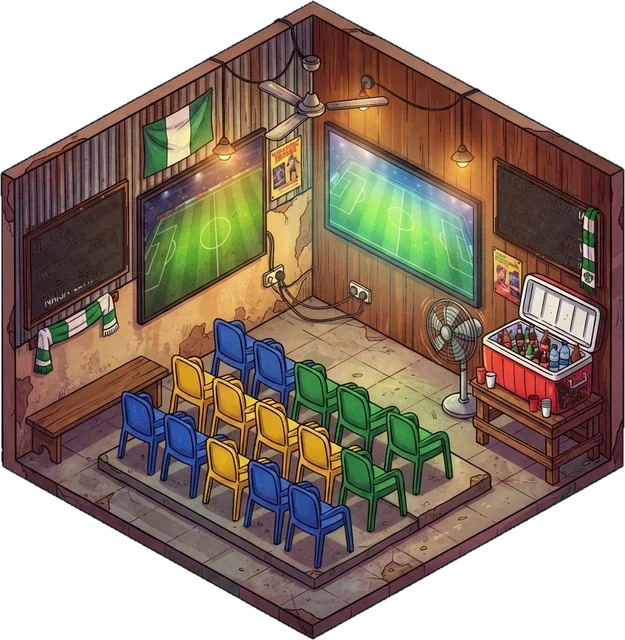
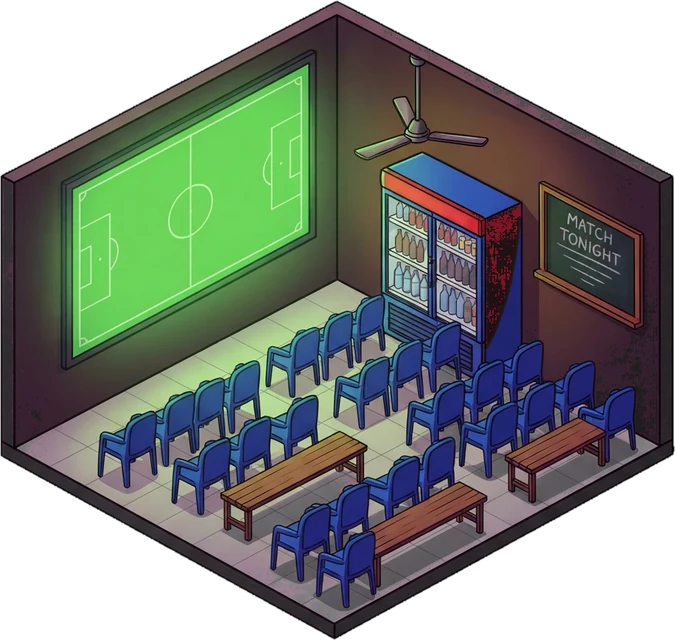
art: zip 15 interiors (police, hospital, radio, library, court, golf lounge, snooker, stadium, hangout, viewing centre, provision shop) with people placed

diff --git a/apps/web/src/components/Interior.tsx b/apps/web/src/components/Interior.tsx
@@ -58,18 +58,15 @@ export const ROOMS: Record<string, Room> = {
     ],
   },
   "viewing-centre": {
-    walkway: [
-      [0.2, 0.78],
-      [0.32, 0.86],
-      [0.5, 0.9],
-      [0.64, 0.86],
-      [0.76, 0.75],
-    ],
-    walkers: 1,
+    // Rows of chairs fill the floor: everyone is seated watching, one person by the cooler.
+    walkway: [[0.8, 0.66], [0.86, 0.7]],
+    walkers: 0,
     stations: [
-      { action: "stand_idle", at: [0.74, 0.76], dir: "sw" },
-      { action: "stand_idle", at: [0.24, 0.8], dir: "se" },
-      { action: "sit_talk", at: [0.15, 0.68], dir: "se" },
+      { action: "sit_talk", at: [0.2, 0.68], dir: "se" },
+      { action: "sit_talk", at: [0.36, 0.6], dir: "se", variant: "man_kaftan" },
+      { action: "sit_talk", at: [0.54, 0.6], dir: "se", variant: "man_casual" },
+      { action: "sit_talk", at: [0.46, 0.82], dir: "se" },
+      { action: "stand_idle", at: [0.7, 0.55], dir: "sw", variant: "man_casual" },
     ],
   },
   barbershop: {
@@ -243,6 +240,93 @@ export const ROOMS: Record<string, Room> = {
     stations: [
       { action: "stand_idle", at: [0.3, 0.65], dir: "se", variant: "man_kaftan" },
       { action: "sit_talk", at: [0.66, 0.63], dir: "sw", variant: "woman_gele" },
+    ],
+  },
+  // Zip 15 (batches 29-31): rooms for the new places and clean redos.
+  "provision-shop": {
+    walkway: [[0.62, 0.62], [0.7, 0.7], [0.78, 0.76], [0.68, 0.8]],
+    walkers: 1,
+    stations: [{ action: "stand_idle", at: [0.6, 0.78], dir: "sw" }],
+  },
+  "golf-lounge": {
+    walkway: [[0.6, 0.64], [0.68, 0.7], [0.78, 0.74], [0.72, 0.82]],
+    walkers: 1,
+    stations: [
+      { action: "sit_talk", at: [0.27, 0.6], dir: "se", variant: "man_kaftan" },
+      { action: "sit_talk", at: [0.5, 0.76], dir: "se" },
+      { action: "stand_idle", at: [0.63, 0.66], dir: "sw" },
+    ],
+  },
+  "stadium-room": {
+    walkway: [[0.45, 0.62], [0.6, 0.7], [0.72, 0.8], [0.55, 0.85], [0.4, 0.75]],
+    walkers: 2,
+    stations: [
+      { action: "sit_talk", at: [0.2, 0.62], dir: "se", variant: "man_casual" },
+      { action: "sit_talk", at: [0.35, 0.56], dir: "se", variant: "man_casual" },
+      { action: "stand_idle", at: [0.62, 0.55], dir: "sw", variant: "man_kaftan" },
+    ],
+  },
+  "snooker-room": {
+    walkway: [[0.3, 0.7], [0.45, 0.8], [0.6, 0.85], [0.78, 0.78], [0.85, 0.68]],
+    walkers: 1,
+    stations: [
+      { action: "stand_idle", at: [0.42, 0.72], dir: "se", variant: "man_casual" },
+      { action: "stand_idle", at: [0.76, 0.63], dir: "sw", variant: "man_kaftan" },
+      { action: "sit_talk", at: [0.67, 0.46], dir: "se" },
+    ],
+  },
+  "police-desk": {
+    walkway: [[0.4, 0.62], [0.5, 0.72], [0.62, 0.8], [0.5, 0.88], [0.35, 0.78]],
+    walkers: 1,
+    stations: [
+      { action: "serve", at: [0.68, 0.45], dir: "sw", variant: "man_casual" },
+      { action: "sit_talk", at: [0.18, 0.62], dir: "se" },
+      { action: "stand_idle", at: [0.52, 0.62], dir: "se" },
+    ],
+  },
+  "radio-studio": {
+    walkway: [[0.8, 0.65], [0.85, 0.72], [0.74, 0.78]],
+    walkers: 1,
+    stations: [
+      { action: "sit_talk", at: [0.35, 0.5], dir: "se", variant: "woman_buba" },
+      { action: "sit_talk", at: [0.6, 0.46], dir: "sw", variant: "man_casual" },
+    ],
+  },
+  "hospital-ward": {
+    walkway: [[0.42, 0.62], [0.5, 0.72], [0.6, 0.8], [0.45, 0.85]],
+    walkers: 1,
+    stations: [
+      { action: "serve", at: [0.25, 0.52], dir: "se", variant: "woman_buba" },
+      { action: "stand_idle", at: [0.66, 0.63], dir: "se", variant: "woman_gele" },
+      { action: "stand_idle", at: [0.38, 0.72], dir: "sw" },
+    ],
+  },
+  "library-room": {
+    walkway: [[0.6, 0.62], [0.7, 0.72], [0.8, 0.78], [0.64, 0.83]],
+    walkers: 1,
+    stations: [
+      { action: "sit_talk", at: [0.18, 0.58], dir: "se", variant: "schoolgirl" },
+      { action: "sit_talk", at: [0.38, 0.72], dir: "se", variant: "schoolboy" },
+      { action: "serve", at: [0.8, 0.52], dir: "sw", variant: "woman_buba" },
+    ],
+  },
+  courtroom: {
+    walkway: [[0.5, 0.58], [0.6, 0.64], [0.55, 0.72]],
+    walkers: 1,
+    stations: [
+      { action: "sit_talk", at: [0.47, 0.38], dir: "se", variant: "man_kaftan" },
+      { action: "stand_idle", at: [0.62, 0.62], dir: "sw", variant: "man_casual" },
+      { action: "sit_talk", at: [0.6, 0.83], dir: "se" },
+    ],
+  },
+  hangout: {
+    walkway: [[0.42, 0.6], [0.52, 0.62], [0.62, 0.57], [0.56, 0.66]],
+    walkers: 1,
+    stations: [
+      { action: "serve", at: [0.3, 0.45], dir: "se", variant: "man_casual" },
+      { action: "stand_idle", at: [0.72, 0.5], dir: "sw", variant: "woman_gele" },
+      { action: "sit_talk", at: [0.33, 0.72], dir: "se" },
+      { action: "sit_eat", at: [0.47, 0.82], dir: "se" },
     ],
   },
 };

diff --git a/packages/shared/src/venues.ts b/packages/shared/src/venues.ts
@@ -224,6 +224,7 @@ export const VENUES: readonly Venue[] = [
     area: "Island Heights",
     icon: "⛳",
     art: "/art/buildings/golf-club.webp",
+    interior: "/art/interiors/golf-lounge.webp",
     blurb: "Old money, new money and the people who carry their bags. Deals get made on the 9th hole.",
     regulars: ["Chief Adebayo", "Caddie Musa"],
     activities: [
@@ -266,6 +267,7 @@ export const VENUES: readonly Venue[] = [
     area: "Owambe Gardens",
     icon: "🏟",
     art: "/art/buildings/stadium.webp",
+    interior: "/art/interiors/stadium-room.webp",
     blurb: "Floodlights, vuvuzelas and the derby everyone argues about for a week.",
     regulars: ["Coach Femi", "Captain Uche"],
     activities: [
@@ -293,6 +295,7 @@ export const VENUES: readonly Venue[] = [
     area: "Danfo Terminal",
     icon: "🚓",
     art: "/art/buildings/police-station.webp",
+    interior: "/art/interiors/police-desk.webp",
     blurb: "The station for Junction 101, Danfo Terminal and Tech Mile. Bring your papers.",
     regulars: ["Inspector Bello", "Sergeant Ngozi"],
     activities: [
@@ -306,6 +309,7 @@ export const VENUES: readonly Venue[] = [
     area: "Danfo Terminal",
     icon: "🎱",
     art: "/art/buildings/snooker.webp",
+    interior: "/art/interiors/snooker-room.webp",
     blurb: "One snooker table, a games corner and cold drinks. Winner stays on.",
     regulars: ["Oga Tunde", "Small Boy Kayode"],
     activities: [
@@ -333,6 +337,7 @@ export const VENUES: readonly Venue[] = [
     area: "Marina Wharf",
     icon: "⚖",
     art: "/art/buildings/high-court.webp",
+    interior: "/art/interiors/courtroom.webp",
     blurb: "Wigs, gowns and long queues. Lawyers in a hurry, everybody else waiting.",
     regulars: ["Barrister Okoro", "Court Clerk Funmi"],
     activities: [
@@ -346,6 +351,7 @@ export const VENUES: readonly Venue[] = [
     area: "Tech Mile",
     icon: "📚",
     art: "/art/buildings/library.webp",
+    interior: "/art/interiors/library-room.webp",
     blurb: "Quiet, cool and free Wi-Fi. The students from City Polytechnic study here until closing.",
     regulars: ["Librarian Mrs Adeyemi"],
     activities: [
@@ -359,6 +365,7 @@ export const VENUES: readonly Venue[] = [
     area: "Tech Mile",
     icon: "📻",
     art: "/art/buildings/radio-station.webp",
+    interior: "/art/interiors/radio-studio.webp",
     blurb: "The morning show everyone listens to in traffic. Call in, shout out your hustle.",
     regulars: ["OAP Toke", "OAP Big Mike"],
     activities: [
@@ -372,6 +379,7 @@ export const VENUES: readonly Venue[] = [
     area: "Airport Ridge",
     icon: "🏥",
     art: "/art/buildings/hospital.webp",
+    interior: "/art/interiors/hospital-ward.webp",
     blurb: "Doctors, nurses and a pharmacy that is always out of one thing. Get checked before you break down.",
     regulars: ["Dr Okafor", "Nurse Amaka"],
     activities: [

diff --git a/apps/web/src/components/Locations.tsx b/apps/web/src/components/Locations.tsx
@@ -1,5 +1,6 @@
 import type { LeaderboardRow } from "@hc/shared";
 import { AlertCircle, Clock, Trophy, Users } from "lucide-react";
+import { InteriorScene, ROOMS } from "./Interior.js";
 import { useEffect, useState } from "react";
 import { api, formatCoins } from "../api.js";
 
@@ -60,6 +61,7 @@ export function Hangout({ onViewed }: { onViewed: () => void }) {
 
   return (
     <div className="stack-lg">
+      <InteriorScene src="/art/interiors/hangout.webp" alt="Inside The Hangout" room={ROOMS.hangout} seed={7} />
       <section className="sheet" aria-labelledby="standings-title">
         <div className="side-title">
           <h2 id="standings-title" style={{ fontSize: 18 }} className="row">

diff --git a/docs/stitch/queue.md b/docs/stitch/queue.md
@@ -191,6 +191,8 @@ Send me each zip as it's done; I'll cut out and place them while you start the n
 3. Car showroom interior: two cars without badges on a shiny floor, a sales desk.
 4. Boat cruise deck (top of a boat, open air): deck chairs, a small bar, string lights, railings, lagoon water around.
 
+**Done (zip 15):** batches 29–31 interiors (police, hospital, radio, library, court, golf lounge, snooker, stadium room, hangout, viewing centre, provision shop). Still to redo: the **aircraft hangar** came with a sky and runway background instead of magenta, so it can't be cut out; ask again with "single object on flat magenta, no background, no sky".
+
 **For batches 29–31, also add:** "Leave a clear open walkway across the middle of the floor (people will walk there). No people in the picture. Draw the room a bit bigger than usual, seen from slightly higher."
 
 ## Batch 29: interiors for the new places (part 1)
